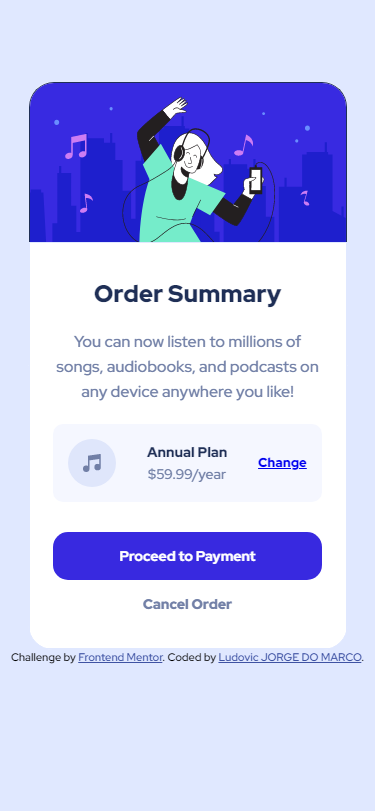
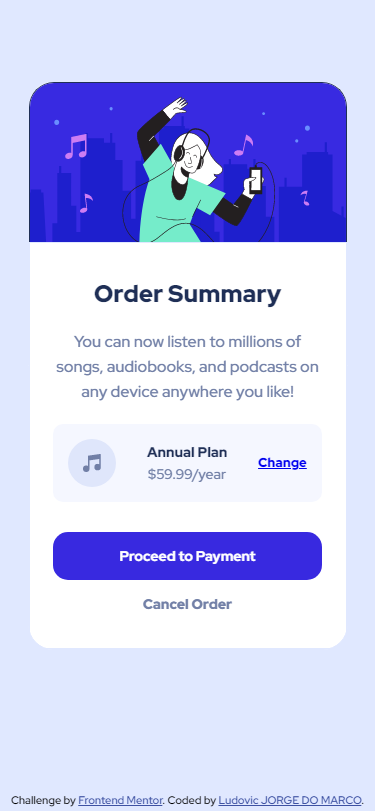
add background in mobile and desktop version, and :hover in desktop version

Changed region(s): [[0.0293, 0.9864, 0.968, 1.0], [0.0293, 0.8015, 0.968, 0.8323]]

diff --git a/assets/css/app.css b/assets/css/app.css
@@ -15,6 +15,9 @@
 .attribution {
   font-size: 11px;
   text-align: center;
+  width: 100%;
+  bottom: 5px;
+  position: fixed;
 }
 .attribution a {
   color: hsl(228, 45%, 44%);
@@ -36,9 +39,6 @@ body {
   margin: auto;
   display: flex;
   flex-direction: column;
-  height: 70vh;
-  width: 90vw;
-  max-width: 320px;
   background-color: white;
   border-radius: 25px;
   border: 1px solid var(--paleBlue);
@@ -49,7 +49,6 @@ body {
   background-size: cover;
   background-repeat: no-repeat;
   width: 100%;
-  height: 160px;
   border-style: solid;
   border-color: var(--darkBlue);
   border-width: 1px 1px 0 1px;
@@ -106,7 +105,9 @@ body {
   font-weight: 900;
   font-size: 13px;
 }
-
+.bill-plan a:hover {
+  color: hsla(245, 75%, 52%, 0.63);
+}
 button {
   margin-top: 30px;
   background: var(--brightBlue);
@@ -121,11 +122,18 @@ button {
   font-weight: 700;
   font-size: 14px;
 }
+button:hover {
+  background-color: hsla(245, 75%, 52%, 0.63);
+}
 .cancel {
-  margin-top: 15px;
+  margin-top: 20px;
   font-weight: 900;
   font-size: 14px;
   color: var(--desaturatedBlue);
+}
+.cancel:hover {
+  color: var(--darkBlue);
+  cursor: pointer;
 }
 .details {
   display: flex;
@@ -135,4 +143,29 @@ button {
   color: var(--desaturatedBlue);
   font-size: 14px;
   line-height: 1.6em;
+}
+
+@media screen and (max-width: 375px) {
+  body {
+    background-image: url('/assets/images/pattern-background-mobile.svg');
+    background-repeat: repeat-x;
+  }
+  .card {
+    max-width: 320px;
+    height: 70vh;
+  }
+  .card-header {
+    height: 160px;
+  }
+}
+
+@media screen and (min-width: 380px) {
+  body {
+    background-image: url('/assets/images/pattern-background-desktop.svg');
+    background-repeat: repeat-x;
+  }
+  .card {
+    width: 30vw;
+    height: 75vh;
+  }
 }

diff --git a/README.md b/README.md
@@ -24,21 +24,18 @@ Users should be able to:
 
 ### Screenshot
 
+Mobile Design
 ![Mobile design](./Designs/mobile-design.png)
-
-### Links
-
-## My process
+![Mobile design objectif](./Examples/mobile-design.jpg)
+![Desktop design](./Designs/desktop-design.png)
+![Desktop design objectif](./Examples/desktop-design.jpg)
 
 ### Built with
 
 - Semantic HTML5 markup
 - CSS custom properties
 - Flexbox
-- CSS Grid
 - Mobile-first workflow
-
-### What I learned
 
 ## Author
 
